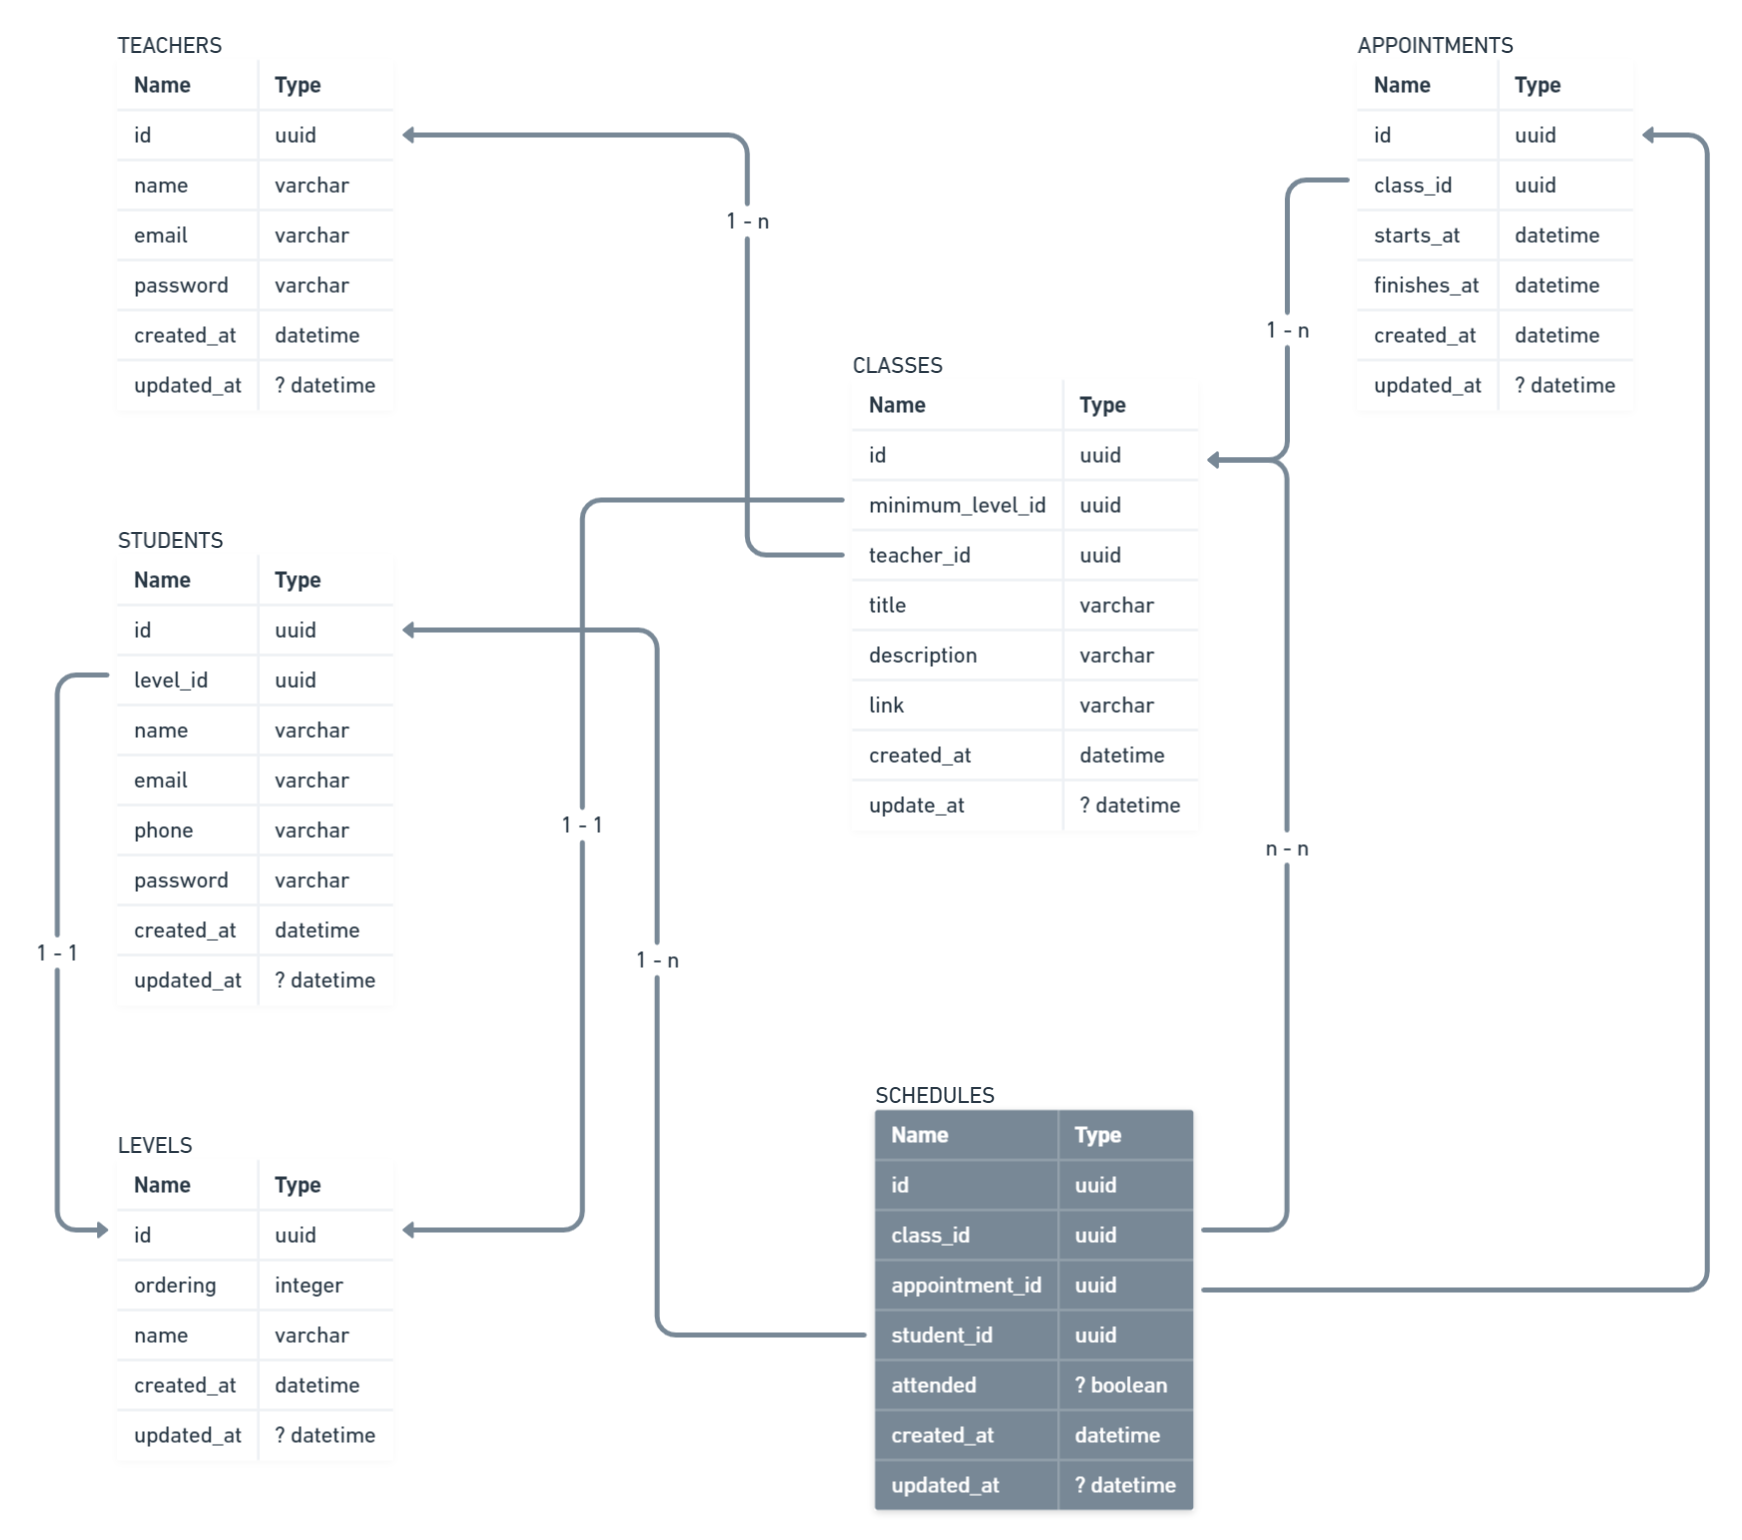
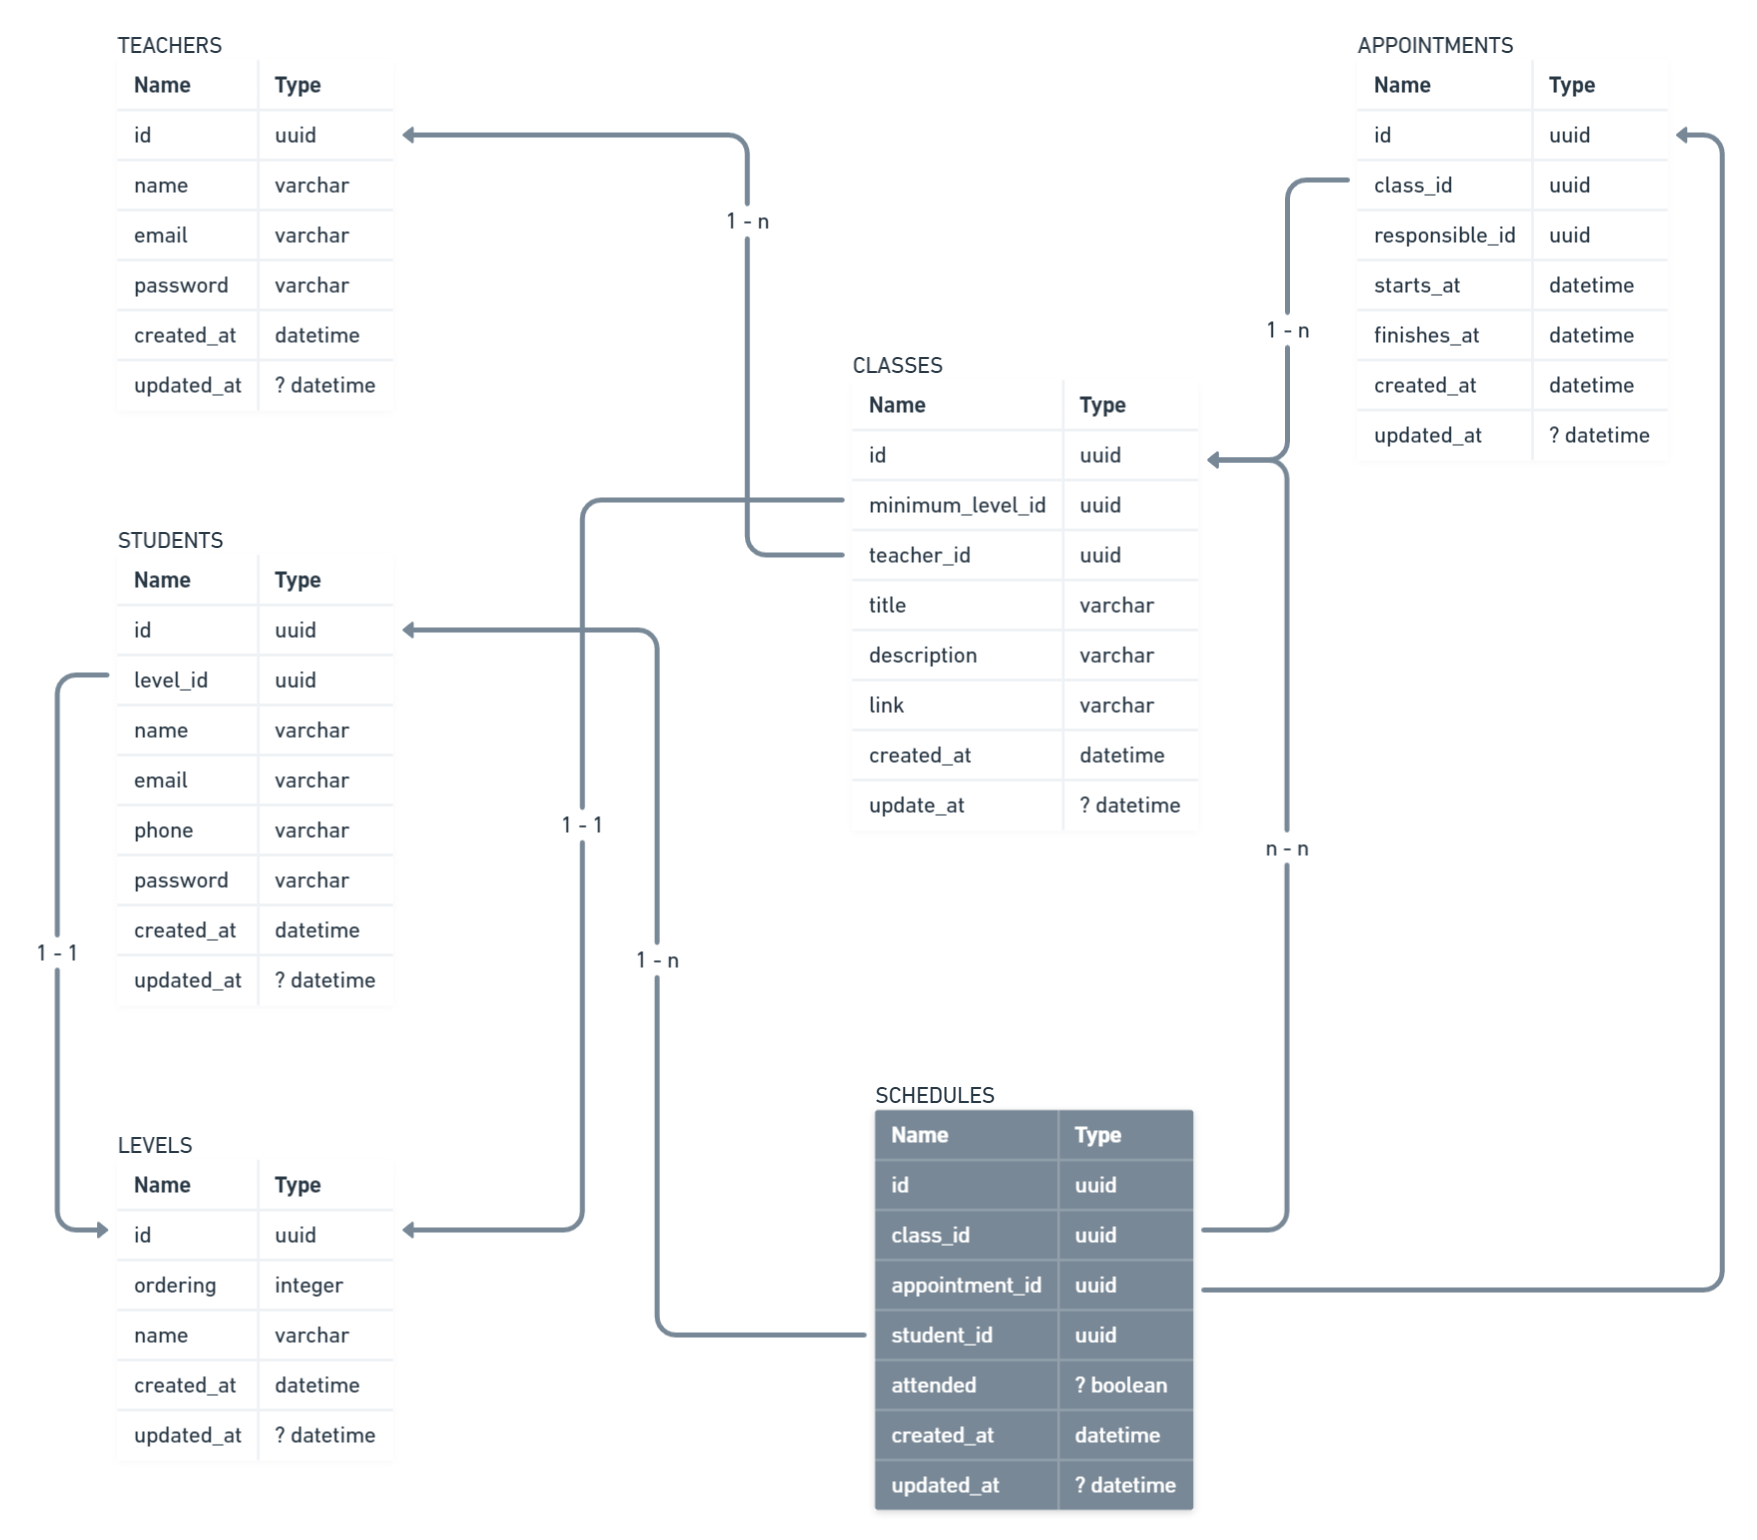
feat: :sparkles: added resource to create an appointment with test and validations

diff --git a/__tests__/unit/appointment/CreateAppointment.useCase.spec.ts b/__tests__/unit/appointment/CreateAppointment.useCase.spec.ts
@@ -30,10 +30,12 @@ describe('Create Appointment Use Case', () => {
 
   it('should be able to create a new appointment', async () => {
     const validClassId = classesRepositoryInMemory.validId;
+    const validTeacherId = uuid();
     const now = new Date();
 
     const sut = await createAppointmentUseCase.execute({
       class_id: validClassId,
+      responsible_id: validTeacherId,
       starts_at: now,
       finishes_at: new Date(now.setHours(now.getHours() + 1)),
     });
@@ -44,12 +46,14 @@ describe('Create Appointment Use Case', () => {
 
   it('should not be able to create a new appointment if starting date is after ending date', async () => {
     const validClassId = classesRepositoryInMemory.validId;
+    const validResponsibleId = uuid();
     const now = new Date();
     const startingDate = new Date(now.setHours(2));
     const endingDate = new Date(now.setHours(1));
 
     const sut = createAppointmentUseCase.execute({
       class_id: validClassId,
+      responsible_id: validResponsibleId,
       starts_at: startingDate,
       finishes_at: endingDate,
     });
@@ -64,9 +68,11 @@ describe('Create Appointment Use Case', () => {
   it('should not be able to create a new appointment if an invalid class is provided', async () => {
     const now = new Date();
     const invalidClassId = uuid();
+    const validResponsibleId = uuid();
 
     const sut = createAppointmentUseCase.execute({
       class_id: invalidClassId,
+      responsible_id: validResponsibleId,
       starts_at: now,
       finishes_at: new Date(now.setHours(now.getHours() + 1)),
     });

diff --git a/src/modules/appointments/infra/typeorm/repositories/AppointmentsRepository.ts b/src/modules/appointments/infra/typeorm/repositories/AppointmentsRepository.ts
@@ -1,6 +1,7 @@
 import { InjectRepository } from '@nestjs/typeorm';
 import { Repository } from 'typeorm';
 
+import { AppointmentExistsByClassAndIntervalDTO } from '~modules/appointments/dtos/AppointmentExistsByClassAndInterval.dto';
 import { IAppointmentsRepository } from '~modules/appointments/repositories/IAppointmentsRepository';
 
 import { CreateAppointmentInput } from '../../graphql/inputs/CreateAppointment.input';
@@ -18,6 +19,30 @@ class AppointmentsRepository implements IAppointmentsRepository {
     const appointment = this.repository.save(appointmentToCreate);
 
     return appointment;
+  }
+
+  async existsByClassAndInterval({
+    class_id,
+    responsible_id,
+    starts_at,
+    finishes_at,
+  }: AppointmentExistsByClassAndIntervalDTO): Promise<boolean> {
+    const [{ exists }] = await this.repository.query(
+      `
+      SELECT EXISTS (
+        SELECT 1
+          FROM appointments
+          WHERE
+            class_id = $1 AND
+            class_id = $2 AND
+            starts_at >= $3 AND
+            finishes_at <= $4
+      )
+    `,
+      [class_id, responsible_id, starts_at, finishes_at],
+    );
+
+    return exists;
   }
 }
 

diff --git a/src/modules/appointments/useCases/createAppointment/CreateAppointment.useCase.ts b/src/modules/appointments/useCases/createAppointment/CreateAppointment.useCase.ts
@@ -26,6 +26,7 @@ class CreateAppointmentUseCase {
 
   async execute({
     class_id,
+    responsible_id,
     starts_at,
     finishes_at,
   }: CreateAppointmentType): Promise<Appointment> {
@@ -33,8 +34,6 @@ class CreateAppointmentUseCase {
       starts_at,
       finishes_at,
     );
-
-    console.log({ starts_at, finishes_at, startingDateIsAfterEnding });
 
     if (startingDateIsAfterEnding) {
       throw new UnprocessableEntityException(
@@ -48,8 +47,23 @@ class CreateAppointmentUseCase {
       throw new BadRequestException('A valid class must be provided.');
     }
 
+    const appointmentExists =
+      await this.appointmentsRepository.existsByClassAndInterval({
+        class_id,
+        responsible_id,
+        starts_at,
+        finishes_at,
+      });
+
+    if (appointmentExists) {
+      throw new BadRequestException(
+        `An appointment already scheduled at this time to this class and teacher.`,
+      );
+    }
+
     const appointment = await this.appointmentsRepository.create({
       class_id,
+      responsible_id,
       starts_at,
       finishes_at,
     });

diff --git a/src/modules/appointments/repositories/in-memory/AppointmentsRepositoryInMemory.ts b/src/modules/appointments/repositories/in-memory/AppointmentsRepositoryInMemory.ts
@@ -1,5 +1,6 @@
 import { v4 as uuid } from 'uuid';
 
+import { AppointmentExistsByClassAndIntervalDTO } from '~modules/appointments/dtos/AppointmentExistsByClassAndInterval.dto';
 import { CreateAppointmentInput } from '~modules/appointments/infra/graphql/inputs/CreateAppointment.input';
 import { Appointment } from '~modules/appointments/infra/typeorm/entities/Appointment';
 
@@ -27,6 +28,23 @@ class AppointmentsRepositoryInMemory implements IAppointmentsRepository {
     this.appointments.push(appointment);
 
     return appointment;
+  }
+
+  async existsByClassAndInterval({
+    class_id,
+    responsible_id,
+    starts_at,
+    finishes_at,
+  }: AppointmentExistsByClassAndIntervalDTO): Promise<boolean> {
+    const exists = this.appointments.some(
+      (appointment) =>
+        appointment.class_id === class_id &&
+        appointment.responsible_id === responsible_id &&
+        appointment.starts_at >= starts_at &&
+        appointment.finishes_at <= finishes_at,
+    );
+
+    return exists;
   }
 }
 

diff --git a/src/modules/appointments/infra/graphql/interfaces/AppointmentInterface.ts b/src/modules/appointments/infra/graphql/interfaces/AppointmentInterface.ts
@@ -1,5 +1,7 @@
 import { Field, ObjectType } from '@nestjs/graphql';
 
+import { Class } from '~modules/classes/infra/typeorm/entities/Class';
+
 import { AbstractAppointment } from '../../abstracts/Appointment';
 
 @ObjectType()
@@ -9,6 +11,9 @@ class AppointmentInterface implements AbstractAppointment {
 
   @Field()
   class_id: string;
+
+  @Field()
+  responsible_id: string;
 
   @Field()
   starts_at: Date;
@@ -21,6 +26,10 @@ class AppointmentInterface implements AbstractAppointment {
 
   @Field({ nullable: true })
   updated_at?: Date;
+
+  responsible?: object;
+
+  class?: Class;
 }
 
 export { AppointmentInterface };

diff --git a/src/modules/appointments/repositories/IAppointmentsRepository.ts b/src/modules/appointments/repositories/IAppointmentsRepository.ts
@@ -1,8 +1,12 @@
+import { AppointmentExistsByClassAndIntervalDTO } from '../dtos/AppointmentExistsByClassAndInterval.dto';
 import { CreateAppointmentInput } from '../infra/graphql/inputs/CreateAppointment.input';
 import { Appointment } from '../infra/typeorm/entities/Appointment';
 
 interface IAppointmentsRepository {
   create(data: CreateAppointmentInput): Promise<Appointment>;
+  existsByClassAndInterval(
+    params: AppointmentExistsByClassAndIntervalDTO,
+  ): Promise<boolean>;
 }
 
 export { IAppointmentsRepository };

diff --git a/src/modules/appointments/infra/typeorm/entities/Appointment.ts b/src/modules/appointments/infra/typeorm/entities/Appointment.ts
@@ -18,12 +18,15 @@ class Appointment implements AbstractAppointment {
   class_id: string;
 
   @Column()
+  responsible_id: string;
+
+  @Column()
   starts_at: Date;
 
   @Column()
   finishes_at: Date;
 
-  @CreateDateColumn({ default: () => 'NOW()' })
+  @CreateDateColumn()
   created_at: Date;
 
   @UpdateDateColumn()

diff --git a/src/modules/appointments/infra/graphql/resolvers/Appointments.resolver.ts b/src/modules/appointments/infra/graphql/resolvers/Appointments.resolver.ts
@@ -16,8 +16,6 @@ class AppointmentsResolver {
   ): Promise<AppointmentInterface> {
     const appointment = await this.createAppointmentUseCase.execute(input);
 
-    console.log({ appointment });
-
     return appointment;
   }
 }

diff --git a/src/modules/appointments/dtos/AppointmentExistsByClassAndInterval.dto.ts b/src/modules/appointments/dtos/AppointmentExistsByClassAndInterval.dto.ts
@@ -1,0 +1,8 @@
+class AppointmentExistsByClassAndIntervalDTO {
+  class_id: string;
+  responsible_id: string;
+  starts_at: Date;
+  finishes_at: Date;
+}
+
+export { AppointmentExistsByClassAndIntervalDTO };

diff --git a/src/modules/appointments/infra/abstracts/Appointment.ts b/src/modules/appointments/infra/abstracts/Appointment.ts
@@ -1,6 +1,7 @@
 abstract class AbstractAppointment {
   id: string;
   class_id: string;
+  responsible_id: string;
   starts_at: Date;
   finishes_at: Date;
   created_at: Date;

diff --git a/src/modules/appointments/infra/graphql/inputs/CreateAppointment.input.ts b/src/modules/appointments/infra/graphql/inputs/CreateAppointment.input.ts
@@ -6,6 +6,9 @@ class CreateAppointmentInput {
   class_id: string;
 
   @Field()
+  responsible_id: string;
+
+  @Field()
   starts_at: Date;
 
   @Field()

diff --git a/src/modules/appointments/useCases/createAppointment/CreateAppointment.types.ts b/src/modules/appointments/useCases/createAppointment/CreateAppointment.types.ts
@@ -1,5 +1,6 @@
 type CreateAppointmentType = {
   class_id: string;
+  responsible_id: string;
   starts_at: Date;
   finishes_at: Date;
 };
